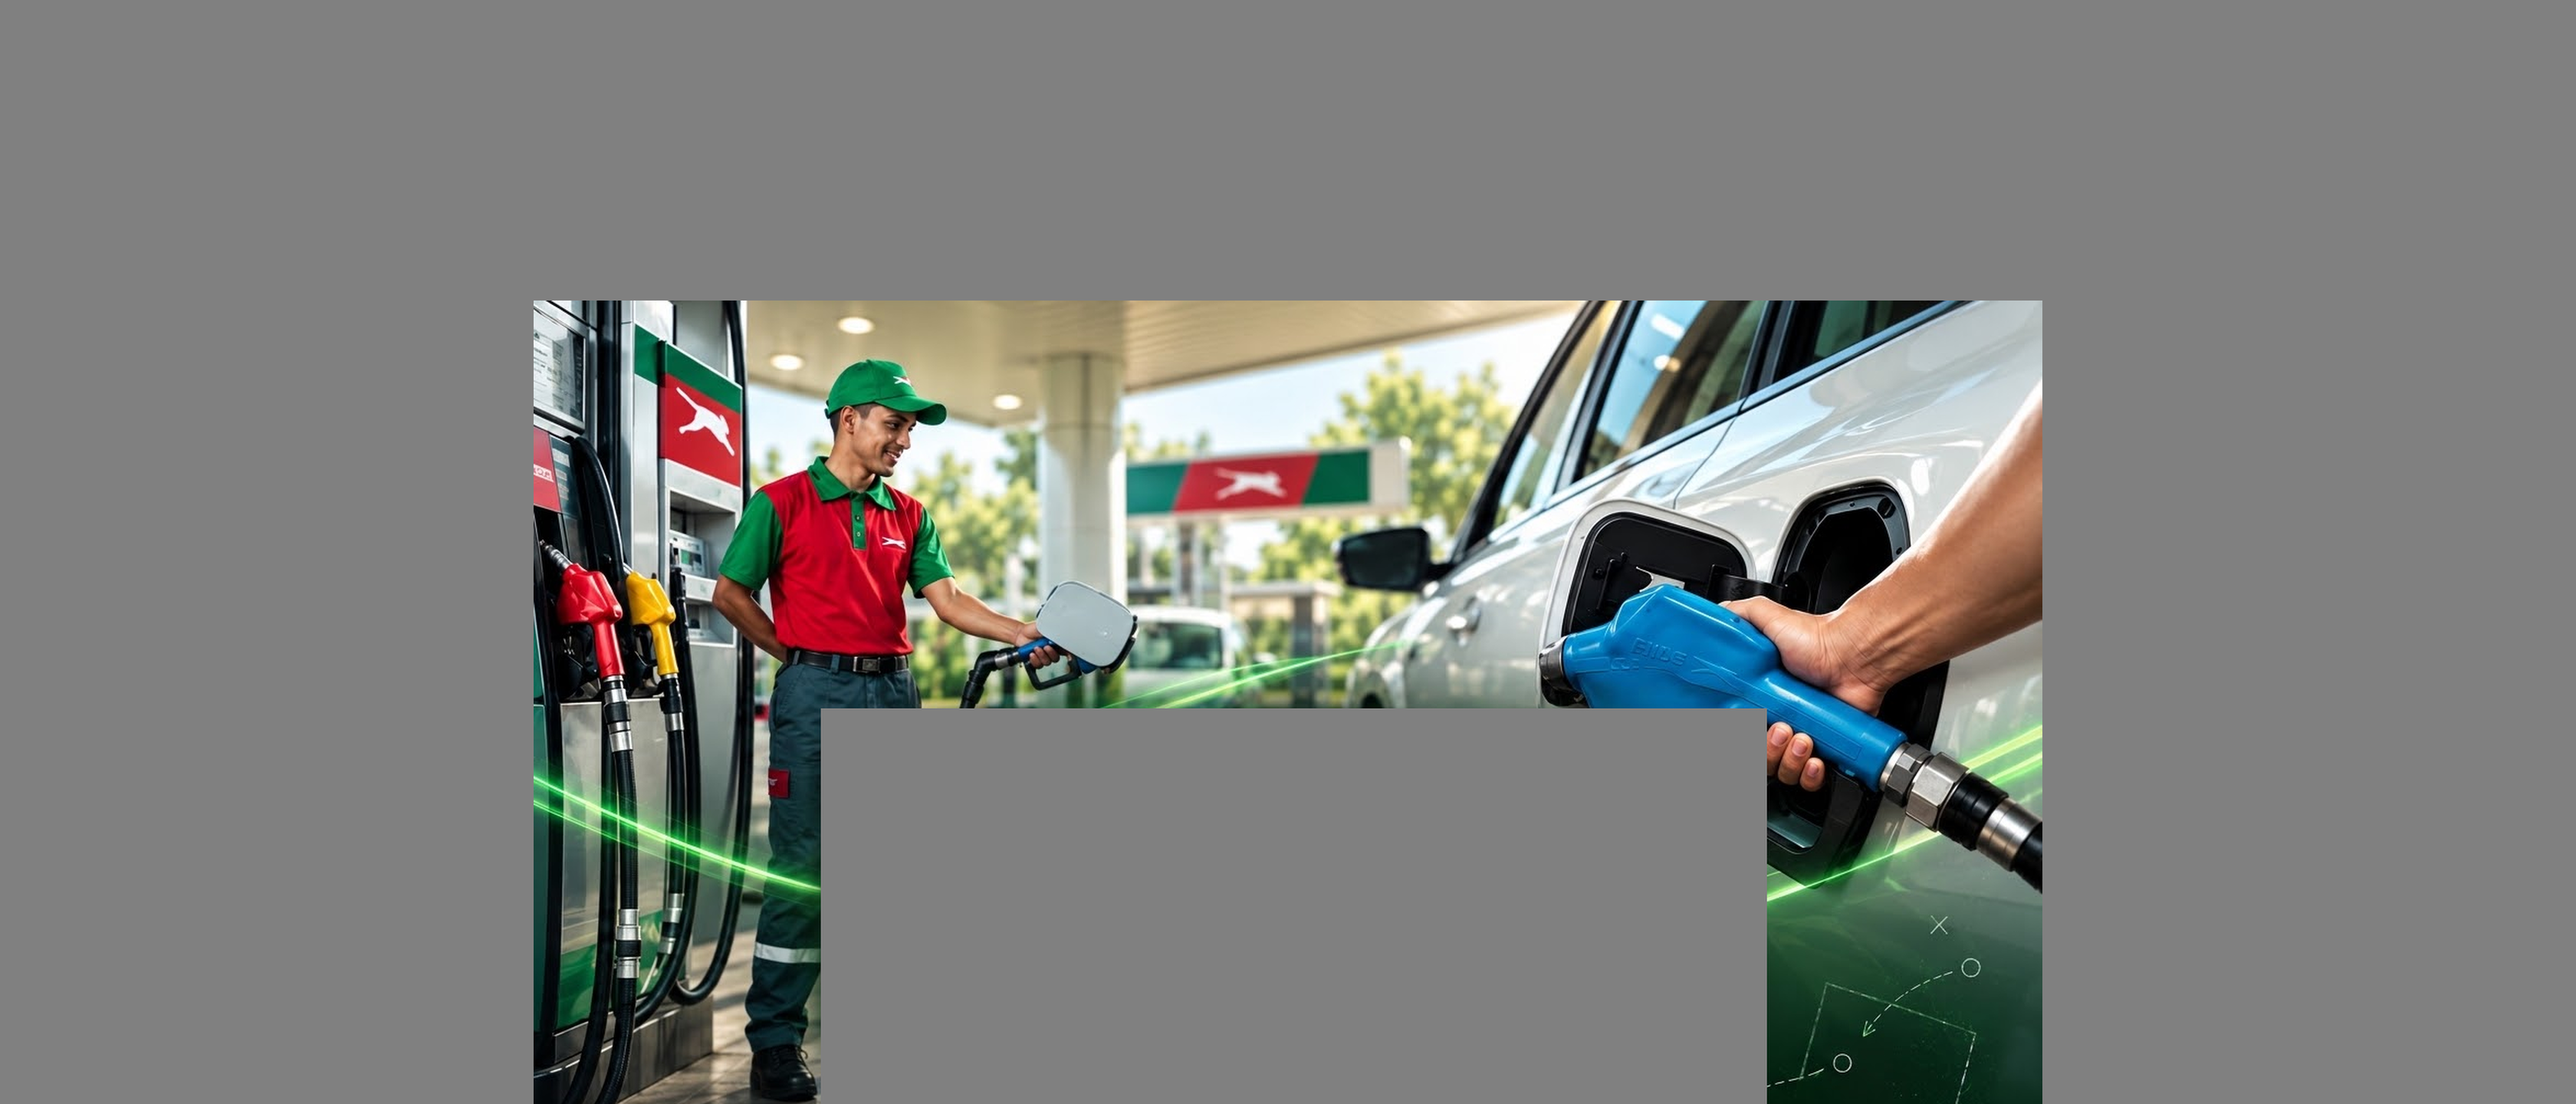
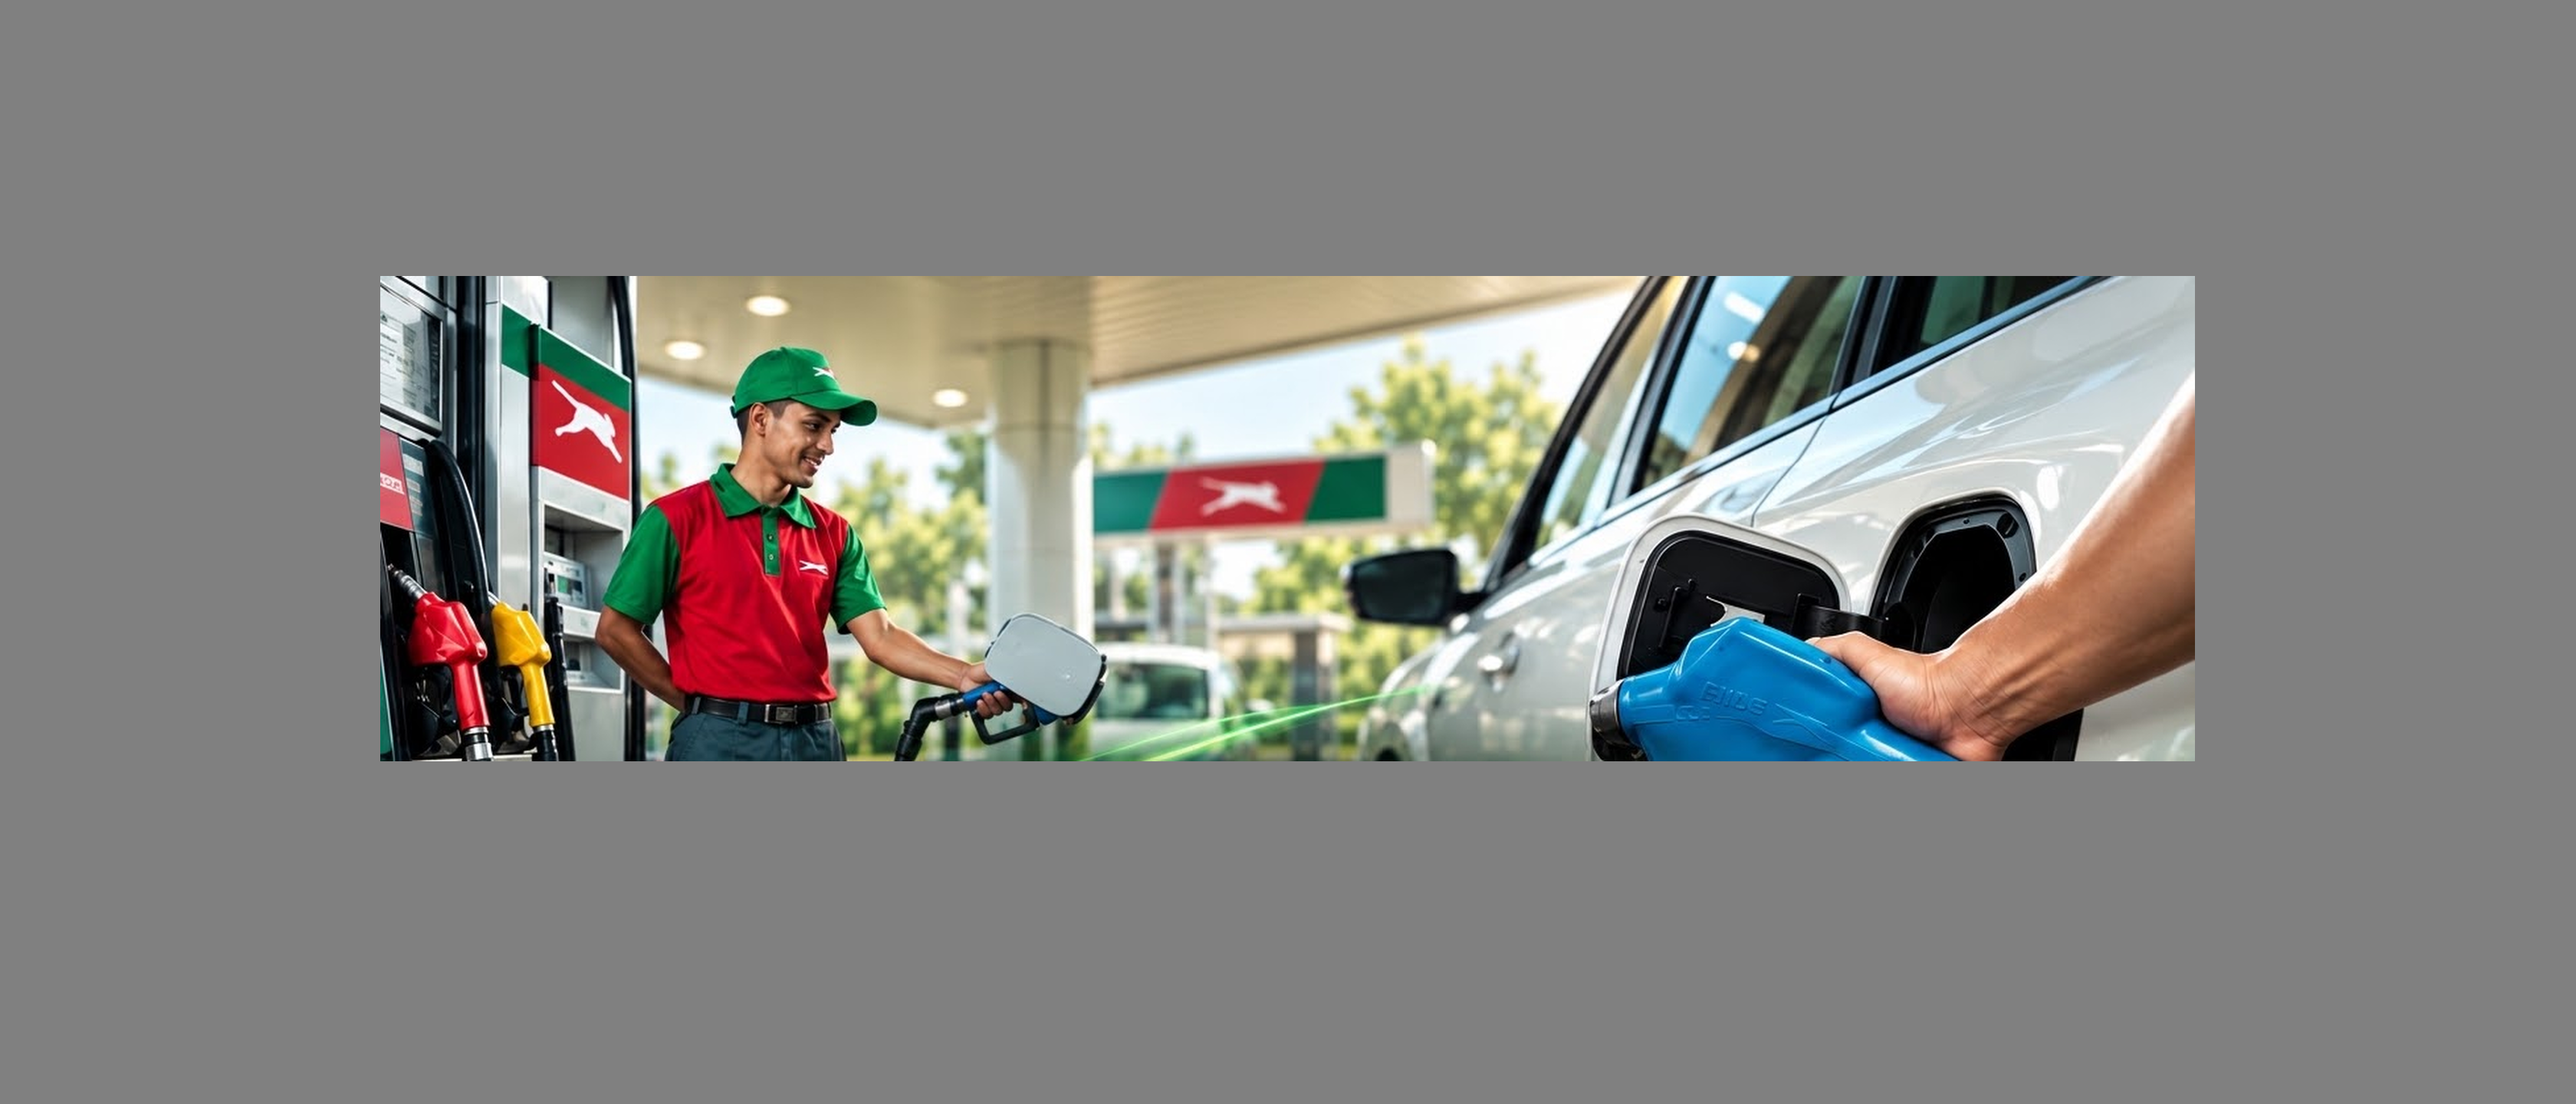
Formento: FOR4 ref v2 (no hole, attendant in band) + prompts
Claude-Session: https://claude.ai/code/session_01ETEHmT9ECK4kya3UBwrmjr

diff --git a/puma-memory/production/formento/PROMPTS_frames_GPT26.md b/puma-memory/production/formento/PROMPTS_frames_GPT26.md
@@ -31,12 +31,12 @@ SCENE: clear late-afternoon light, café-con-leche water with current lines, eac
 LENS & LOOK: drone 24 mm, 120 m altitude, crisp, natural saturated colour, warm sun, long soft shadows. Clear air, no fog or haze.
 FIXES: no text, no logos, no vessel names.
 
-### FOR4 · estación Puma
+### FOR4 · estación Puma  (ref v2: deck frame cropped above the placa text, no hole; grey = extend)
 Turn the attached reference into a photorealistic 21:9 frame of a clean, modern Puma Energy service station.
-COMPOSITION (locked): attendant at the pumps on the left third, canopy and red-green Puma sign in the centre background, white car on the right third with a hand inserting the blue nozzle into the filler. Extend the forecourt, car, pump island and sky contextually into all grey areas (the grey box is missing scene). No zoom or reframe of the existing content.
-SCENE: smiling young attendant in the Puma uniform (green cap, red-and-green polo, dark work trousers with reflective stripes), bright clean forecourt, trees, blue sky; calm and ordered.
-LENS & LOOK: 35 mm, bright natural daylight, crisp commercial realism.
-FIXES: remove the green light lines and the chalk drawing; 5 fingers per hand on their own arms; Puma Energy brand only, no other brands or text.
+COMPOSITION (locked): keep the reference exactly — fuel pumps at the far left, the smiling attendant in the left third (waist-up, head in the upper middle of the frame) holding a small grey handheld card-payment terminal, the canopy with ceiling lights and the red-green Puma sign in the centre background, the white car on the right with the driver's hand holding the blue nozzle in the filler. Extend contextually into the grey: canopy roof and sky above; the attendant's legs, the pump island and the clean forecourt floor below; more of the car on the right and pumps on the left. No zoom or reframe of the existing content.
+SCENE: young attendant in the Puma uniform (green cap, red polo with green sleeves and collar, dark work trousers), bright clean forecourt, green trees, blue sky; calm, ordered, clear.
+LENS & LOOK: 35 mm, bright natural daylight, crisp commercial realism, natural skin.
+FIXES: remove the green light streaks; the attendant holds only the payment terminal (no nozzle in his hand); 5 fingers per hand on their own arms; Puma Energy brand only, no other brands, no text, no lettering on the nozzle.
 
 ## Seedance 2.5 · @image1 = approved frame (首帧) · 21:9 · 6 s · 480p draft → Topaz 3840×1648 30 fps
 Universal rules: single shot, no cuts; subject motion about 80% (slight slow motion), camera in real time and never stops; small camera moves only; key action in the middle 43% band, left/right of centre; no fog, no light FX, no text/logos/captions, no music.
@@ -59,11 +59,11 @@ Universal rules: single shot, no cuts; subject motion about 80% (slight slow mot
 物体动作约80%速度，摄影机真实速度。真实比例：每节驳船约60米。
 风格：真实新闻航拍，午后暖阳，空气清澈，无雾无霾，色彩自然饱和。无文字、无标志、无船名、无音乐。
 
-### FOR4 (v2: more attendant motion)
-@image1（首帧）。单镜头，6秒，21:9，构图与首帧完全一致，服务员始终在画面左三分之一，头部保持在画面垂直中部。
+### FOR4 (v3: attendant motion, matches ref v2)
+@image1（首帧）。单镜头，6秒，21:9，构图与首帧完全一致，服务员始终在画面左三分之一，头部保持在画面垂直中上部。
 0-6秒：35mm，摄影机极缓慢向前推轨（约0.3米/秒），保持水平，不跟随人物。
-0-1.5秒：左侧Puma服务员把手中的加油枪挂回油泵枪座，枪身轻轻晃动。
-1.5-3.5秒：他转身朝右侧车辆迈出一小步，抬头看向车主，露出自然真诚的笑容，右手抬起做一个轻松的问候手势（挥手），左手自然下垂。
-3.5-6秒：他停下脚步，轻轻点头，双手自然放回身侧，身体微微放松；同时右侧的手把蓝色加油枪插入加油口并按下扳机，油枪轻微震动。背景树叶轻摆，前场干净明亮。
-人物动作约80%速度（轻微慢动作，流畅自然），摄影机真实速度。动作幅度小，人物不离开左三分之一区域。手部：每只手5根手指，属于正确的手臂；制服、帽子、Puma标志保持不变。
+0-2秒：左侧Puma服务员手持小型刷卡机，抬头看向右侧车主，露出自然真诚的笑容。
+2-4秒：他朝车辆方向迈出一小步，左手把刷卡机稍稍向前递出，右手抬起做一个轻松的问候手势（挥手）。
+4-6秒：他停下，轻轻点头，身体放松；同时右侧车主的手按下蓝色加油枪扳机，油枪轻微震动。背景树叶轻摆，前场干净明亮。
+人物动作约80%速度（轻微慢动作，流畅自然），摄影机真实速度。动作幅度小，人物不离开左三分之一区域。手部：每只手5根手指，属于正确的手臂；服务员手中只有刷卡机，没有加油枪。制服、帽子、Puma标志保持不变。
 风格：明亮自然日光，干净清晰的商业写实，无雾无霾。只出现Puma Energy品牌，无其他文字、标志、无音乐。
